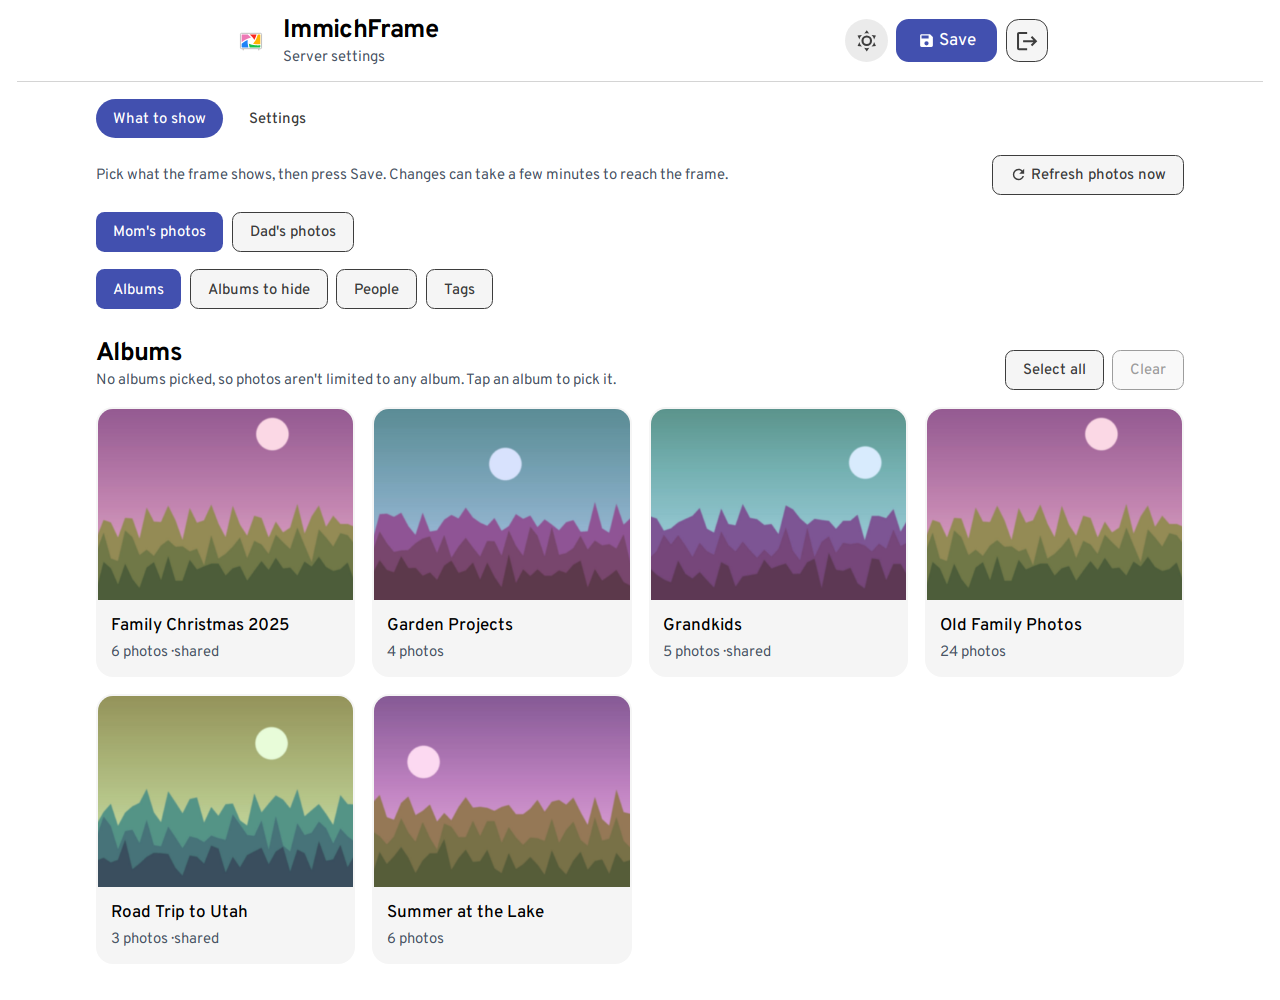
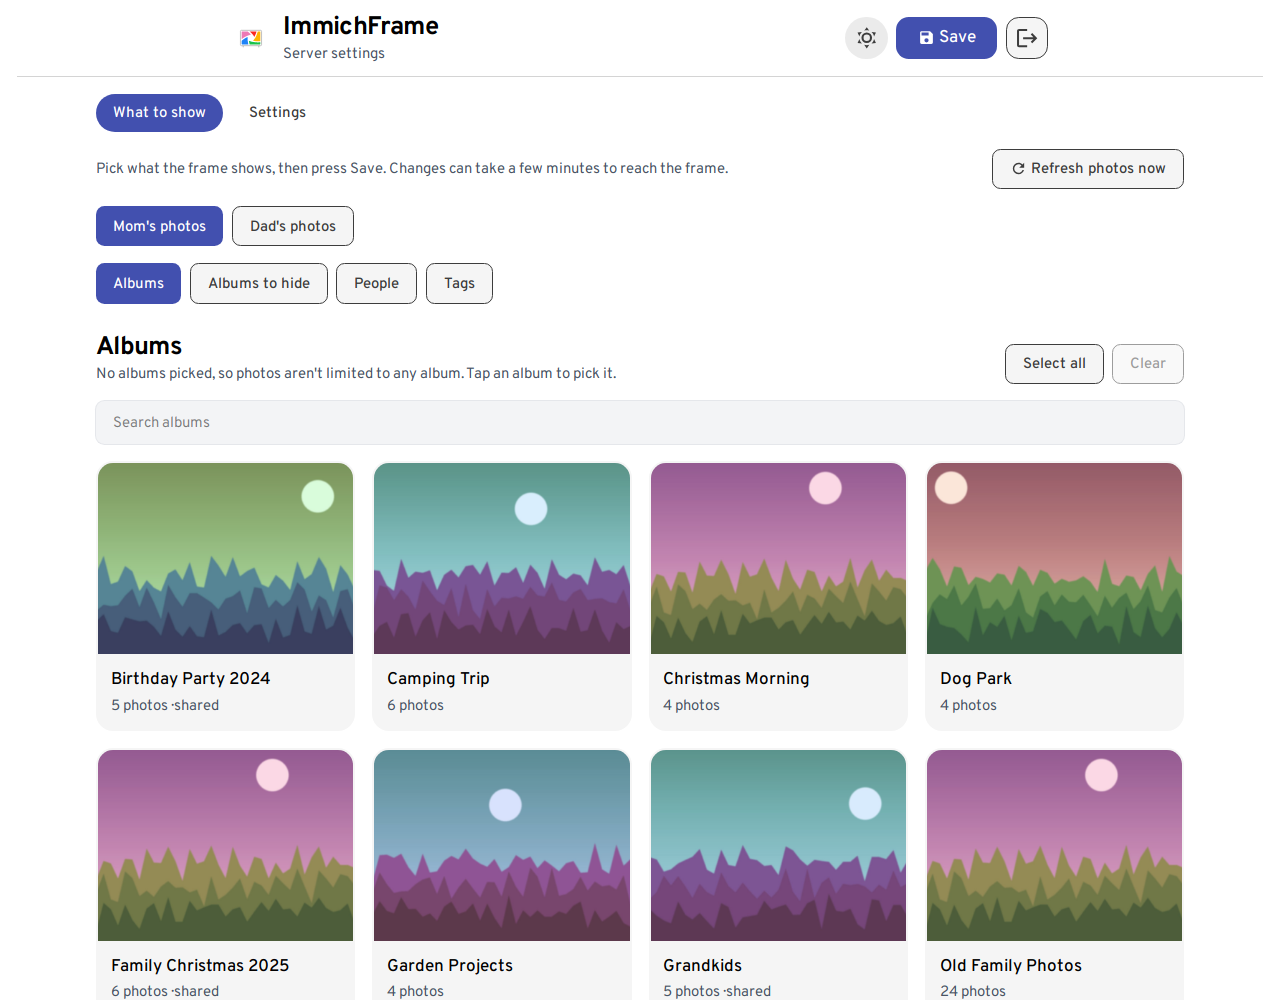
Screenshots: 12 albums in the mock data, add album search shot
- Mock Immich now has 12 albums so the picker's search box (shown for more than
  8 items) appears
- New pickers-search screenshot; picker shots scroll back to the top and pick
  visible albums
- All screenshots regenerated

diff --git a/README.md b/README.md
@@ -7,7 +7,7 @@ This fork exists to add features and fixes I wanted that the original project do
 <!-- FORK-FEATURES:START (generated by tools/screenshots/build-readme.mjs - do not edit by hand) -->
 ### What this fork adds
 
-- **Pick albums, people and tags from tiles instead of typing UUIDs.** The admin UI has a "What to show" tab that lists albums, people and tags straight from Immich as tiles with cover photos. Tap what you want, press Save. The API key stays on the server.
+- **Pick albums, people and tags from tiles instead of typing UUIDs.** The admin UI has a "What to show" tab that lists albums, people and tags straight from Immich as tiles with cover photos. Long lists have a search box. Tap what you want, press Save. The API key stays on the server.
 - **Name your accounts.** Accounts get an optional name that is shown in the admin UI instead of "Account 1", "Account 2".
 - **Admin split into "What to show" and "Settings" tabs.** Content selection and display settings are separate tabs, and the "Saved" notice can be closed (and goes away by itself).
 - **Light / dark mode switch in the admin UI.** The admin UI follows your browser's light or dark theme by default. The sun/moon button in the header switches it, and your choice is remembered on that device.
@@ -24,6 +24,8 @@ This fork exists to add features and fixes I wanted that the original project do
 #### Pick albums, people and tags from tiles instead of typing UUIDs
 
 <p align="center"><img src="screenshots/pickers-albums.png" alt="Albums, with a few picked" width="720"><br><sub>Albums, with a few picked</sub></p>
+
+<p align="center"><img src="screenshots/pickers-search.png" alt="Long lists get a search box" width="720"><br><sub>Long lists get a search box</sub></p>
 
 <p align="center"><img src="screenshots/pickers-hide-albums.png" alt="Albums to hide" width="720"><br><sub>Albums to hide</sub></p>
 
